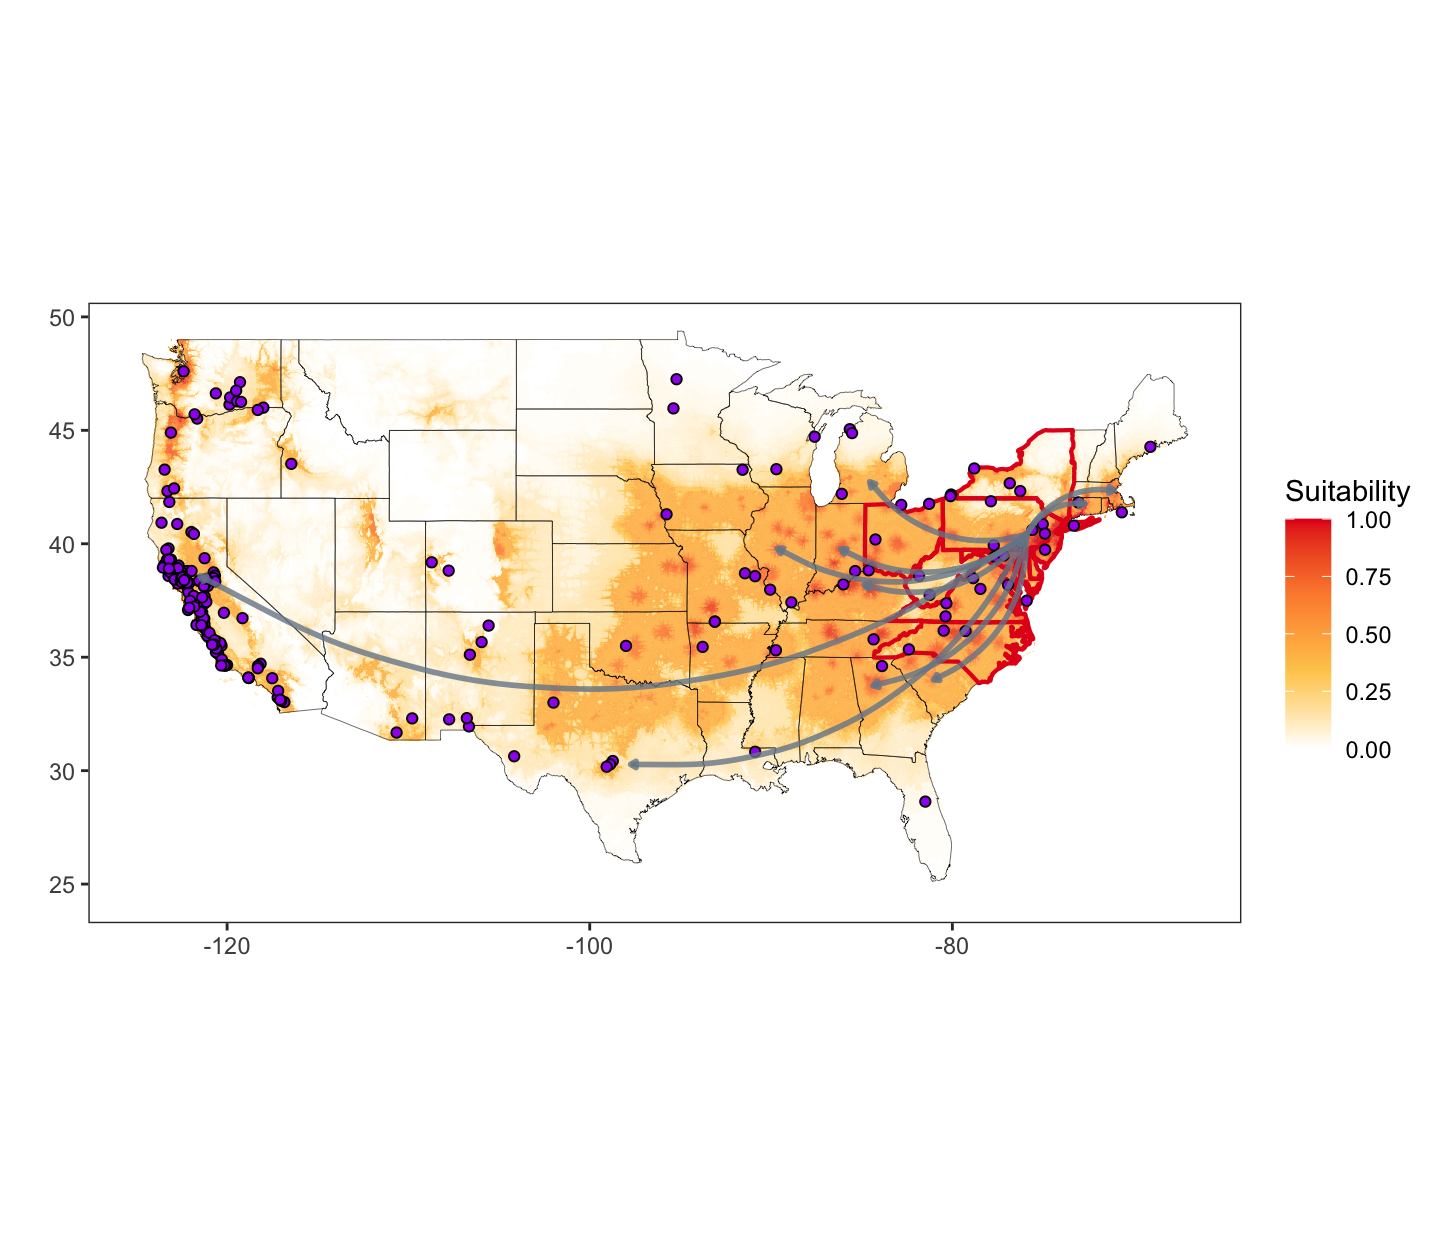
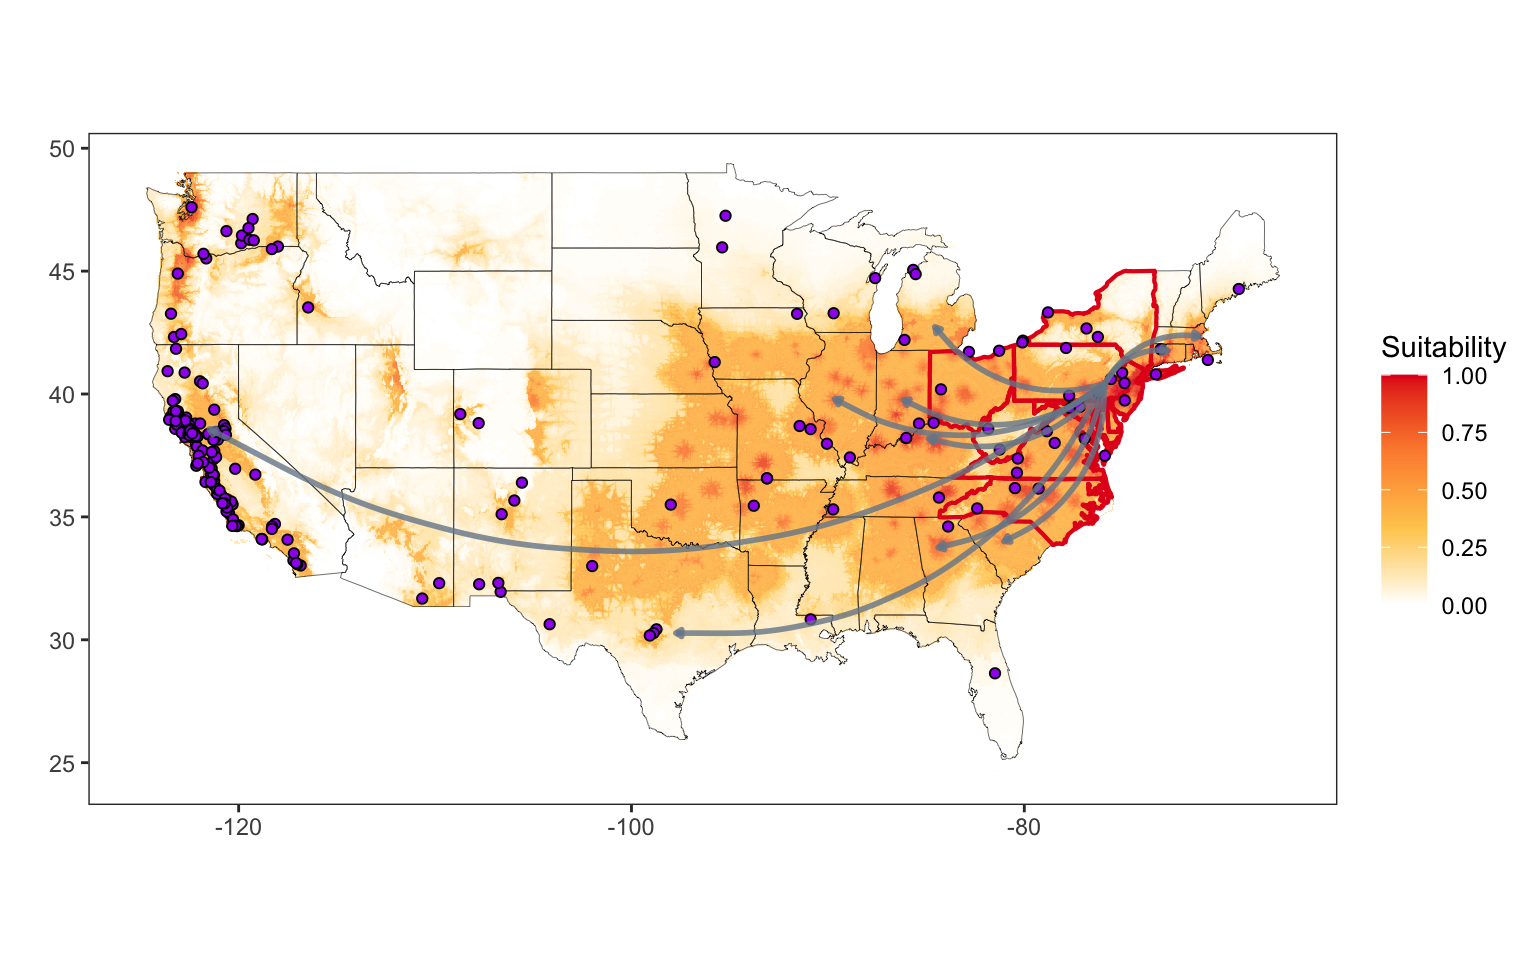
hopefully tweaked maps to look nicer?

diff --git a/docs/articles/vignette-030-risk-maps.html b/docs/articles/vignette-030-risk-maps.html
@@ -328,7 +328,7 @@
 
 <span class="co">#show it</span>
 <span class="no">map_plot</span></pre></body></html></div>
-<p><img src="vignette-030-risk-maps_files/figure-html/the%20US%20map-1.png" width="720"></p>
+<p><img src="vignette-030-risk-maps_files/figure-html/the%20US%20map-1.png" width="768"></p>
 </div>
 <div id="countries-1" class="section level2">
 <h2 class="hasAnchor">
@@ -366,7 +366,7 @@
 
 <span class="co">#print it</span>
 <span class="no">map_plot_countries</span></pre></body></html></div>
-<p><img src="vignette-030-risk-maps_files/figure-html/plot%20map%20of%20countries-1.png" width="720"></p>
+<p><img src="vignette-030-risk-maps_files/figure-html/plot%20map%20of%20countries-1.png" width="1152"></p>
 </div>
 </div>
 <div id="save-plot-output" class="section level1">
